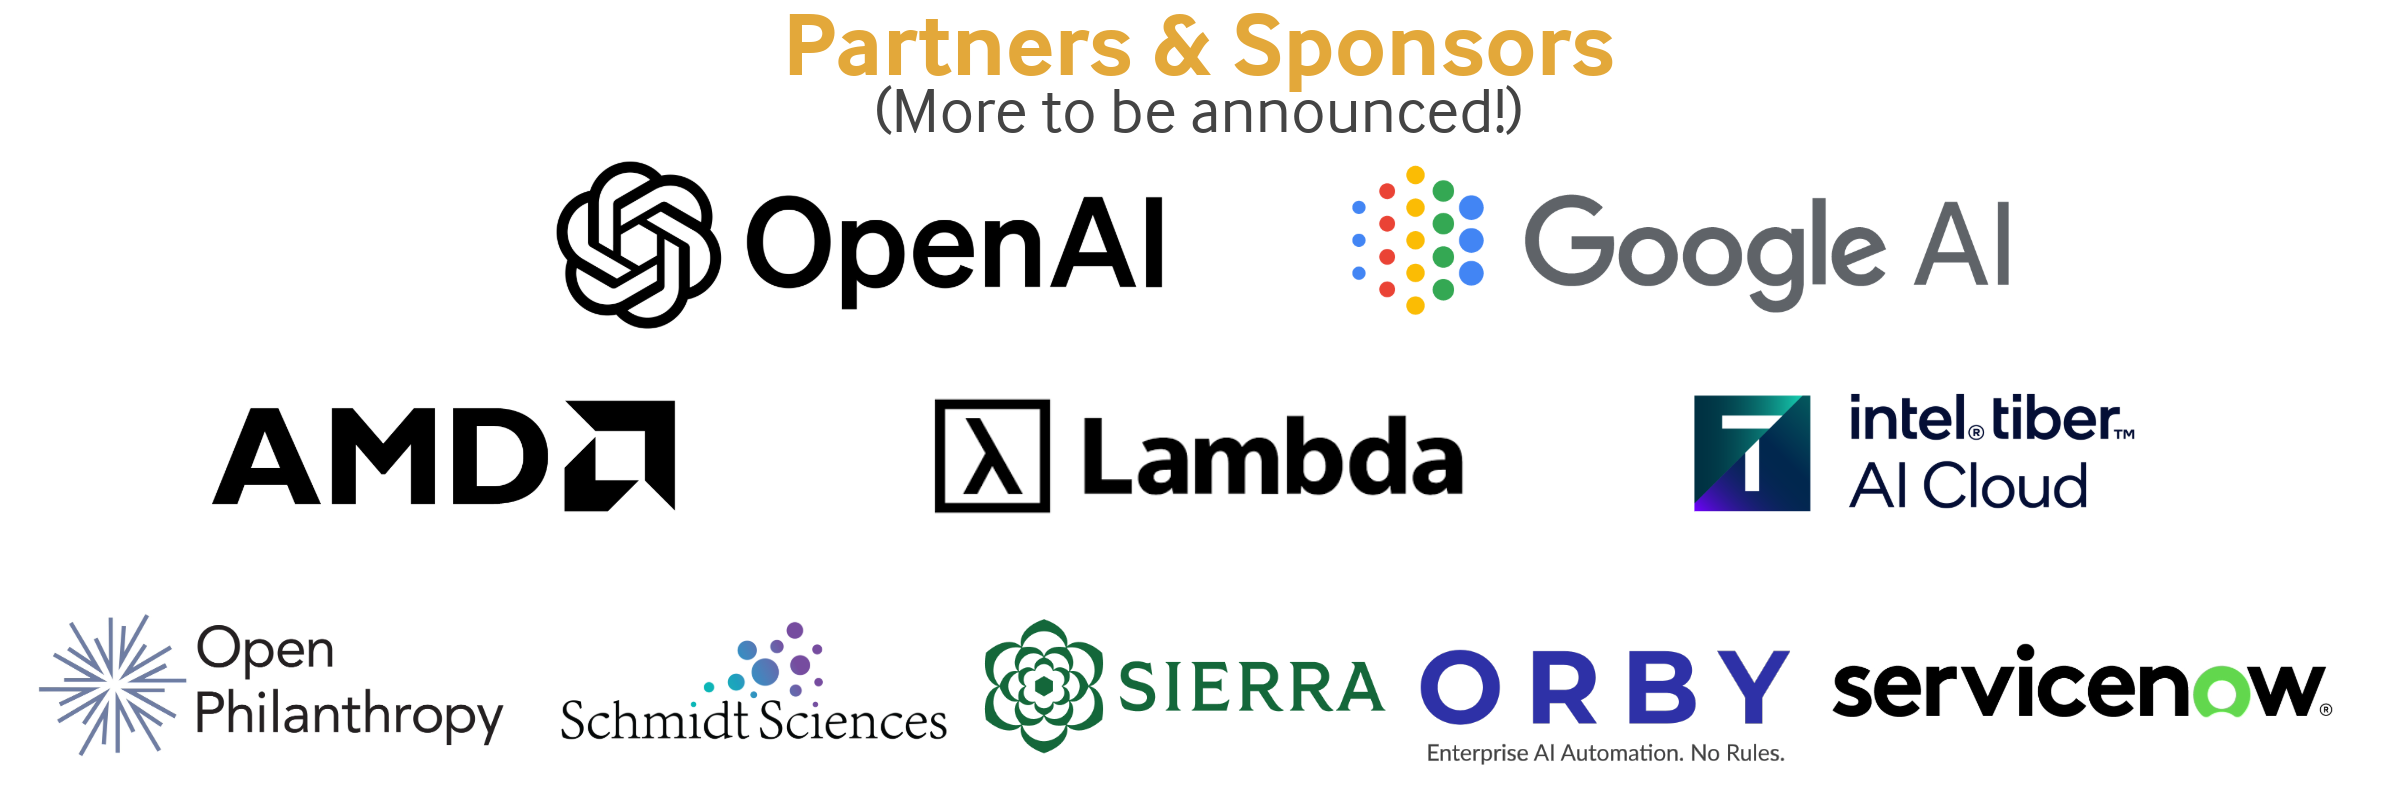
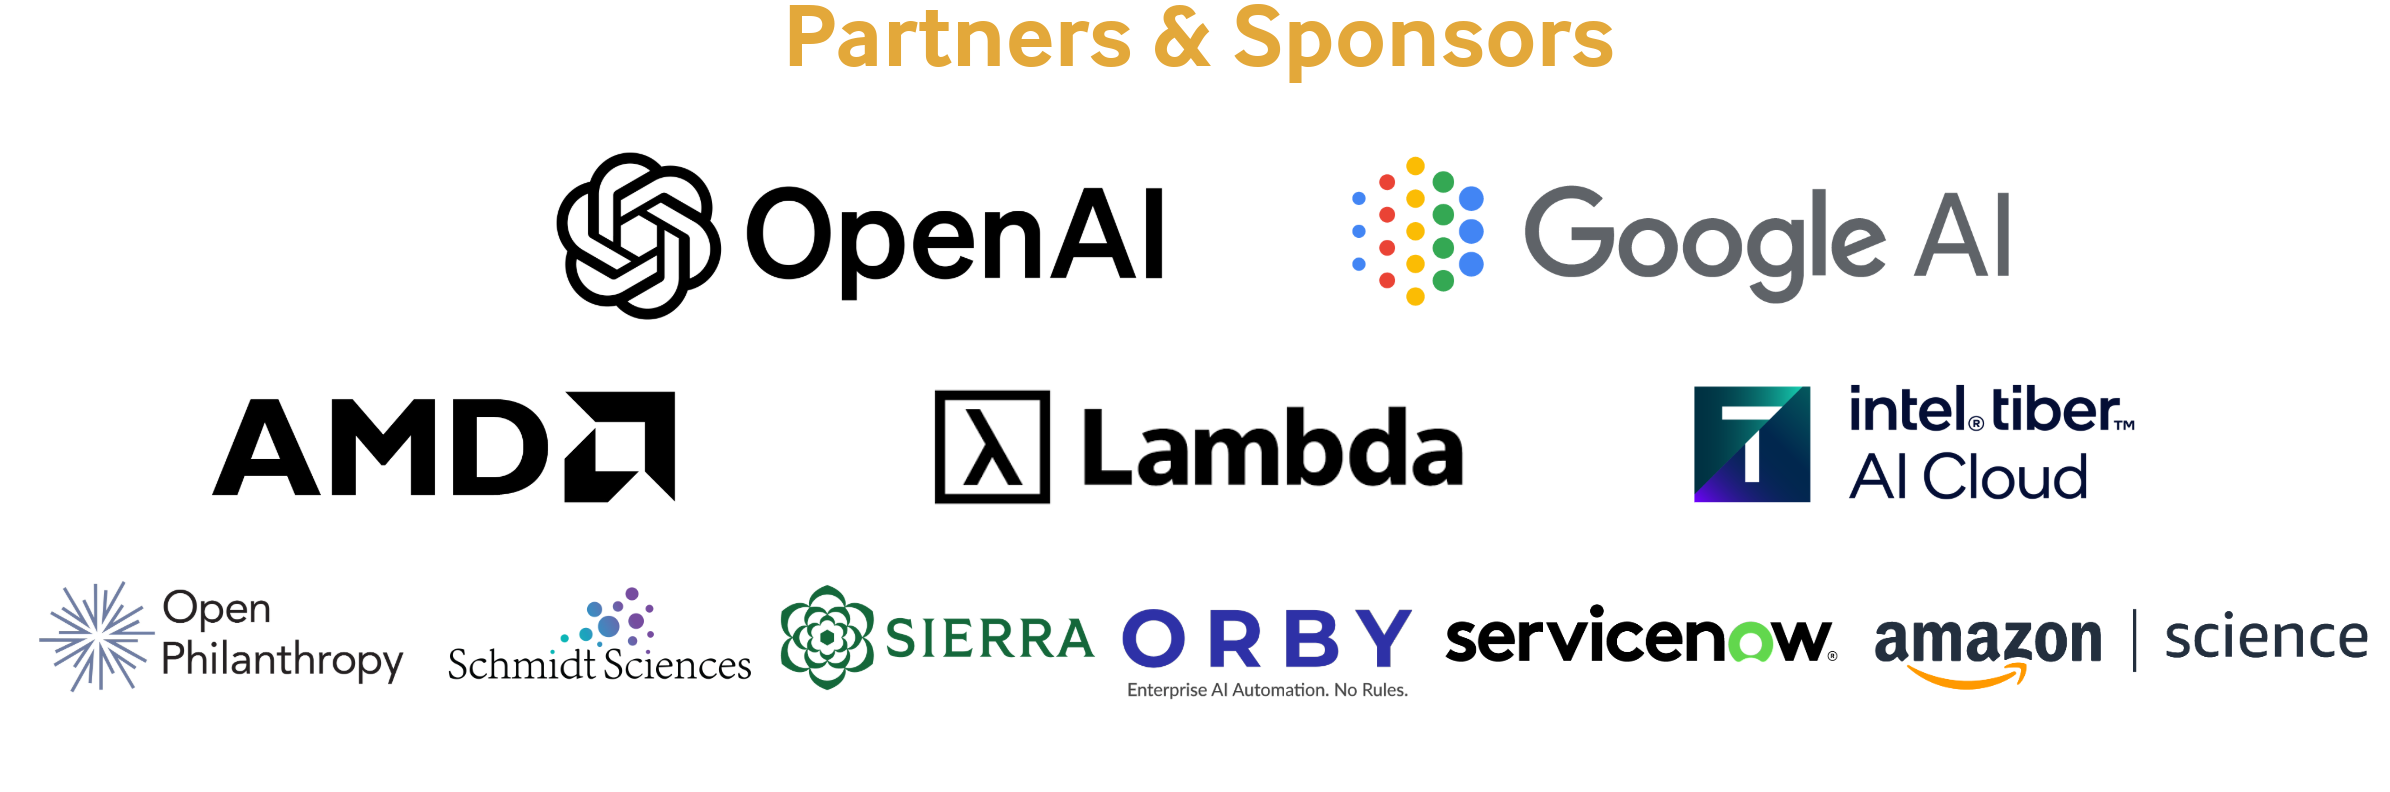
Updating sponsor to include amaozn

diff --git a/_layouts/home.html b/_layouts/home.html
@@ -307,6 +307,19 @@ For Hackathon discussion, please join the Hackathon channel at <a href="https://
        </p>
     </div>
   </div>
+  <div class="card-reduced-height"  style="height: 280px">
+    <div class="card-image">
+      <img style="padding-top: 45px;" src="{{site.baseurl}}/assets/img/amazon_science.png" alt="Sponsor Logo" style="padding-top: 20px;">
+    </div>
+    <div class="card-reduced-width-text">
+      <p>
+        <b>PRIZES</b> Up to $6,000 in AWS cloud credits for winners. <br> <br>
+        <b>RESOURCES</b>   Learn more and check out their openings, especially for PhD internships in GenAI and LLMs.
+        <br> <br>
+        <a href="https://docs.google.com/document/d/1wnX-oasur0bDvoiMwQC52_wgVYK1UgPwYJiY5-8guTo/edit?tab=t.0#bookmark=id.c6u1ak8h64s6">⧉ Learn More Here</a>
+       </p>
+    </div>
+  </div>
 </div>
 
 
